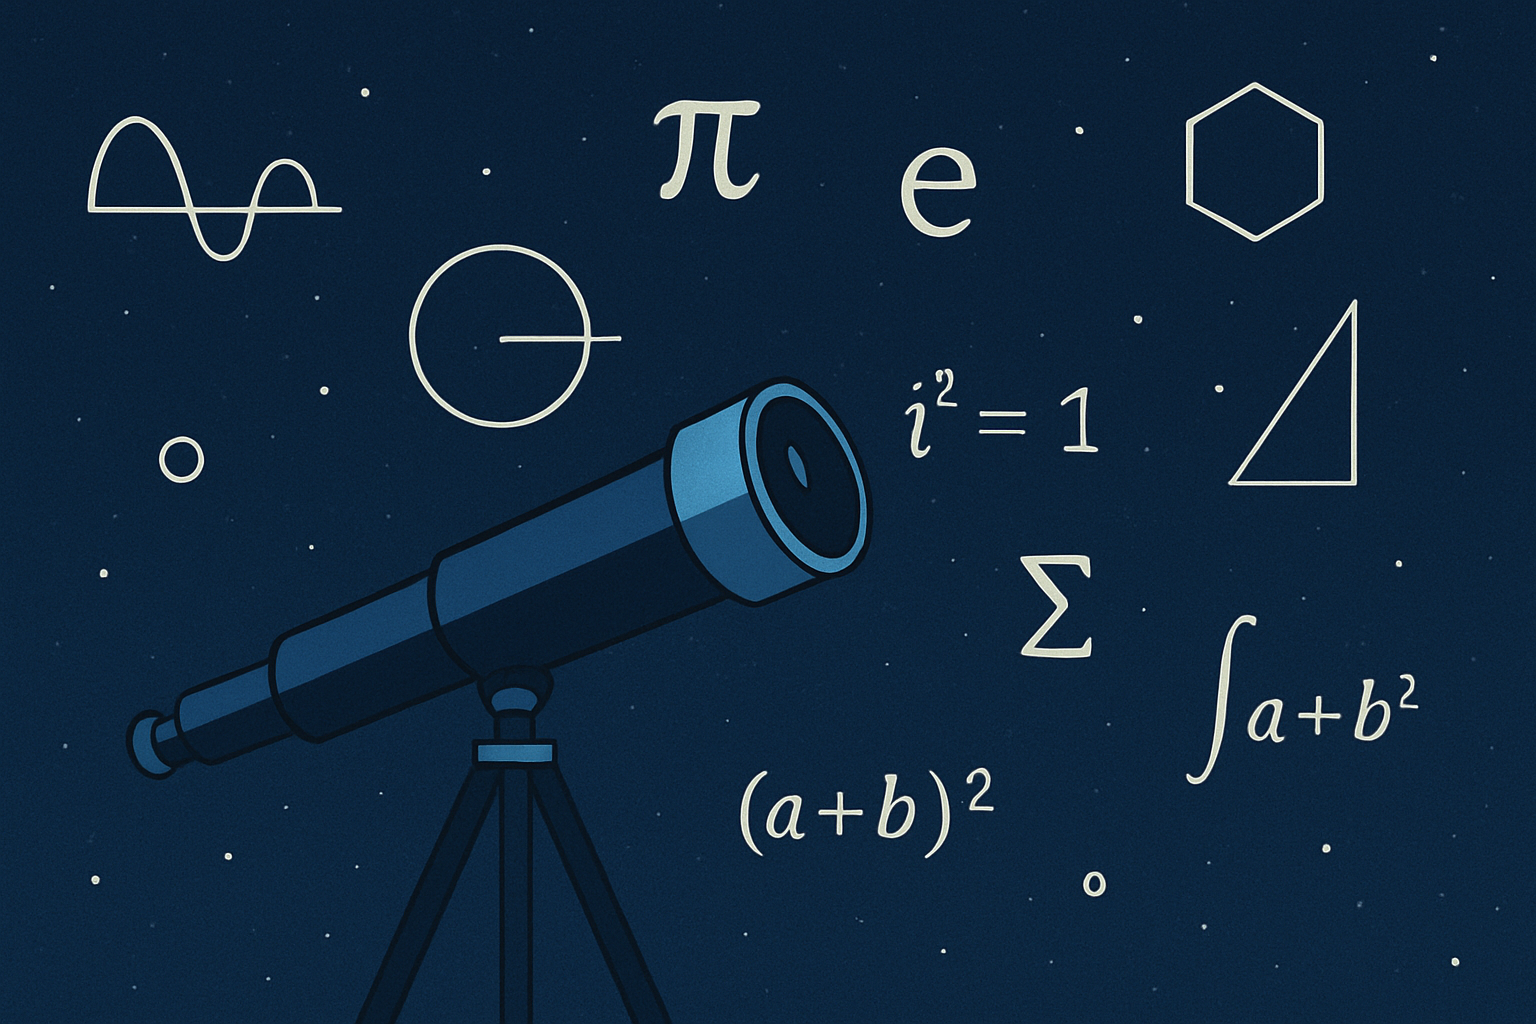
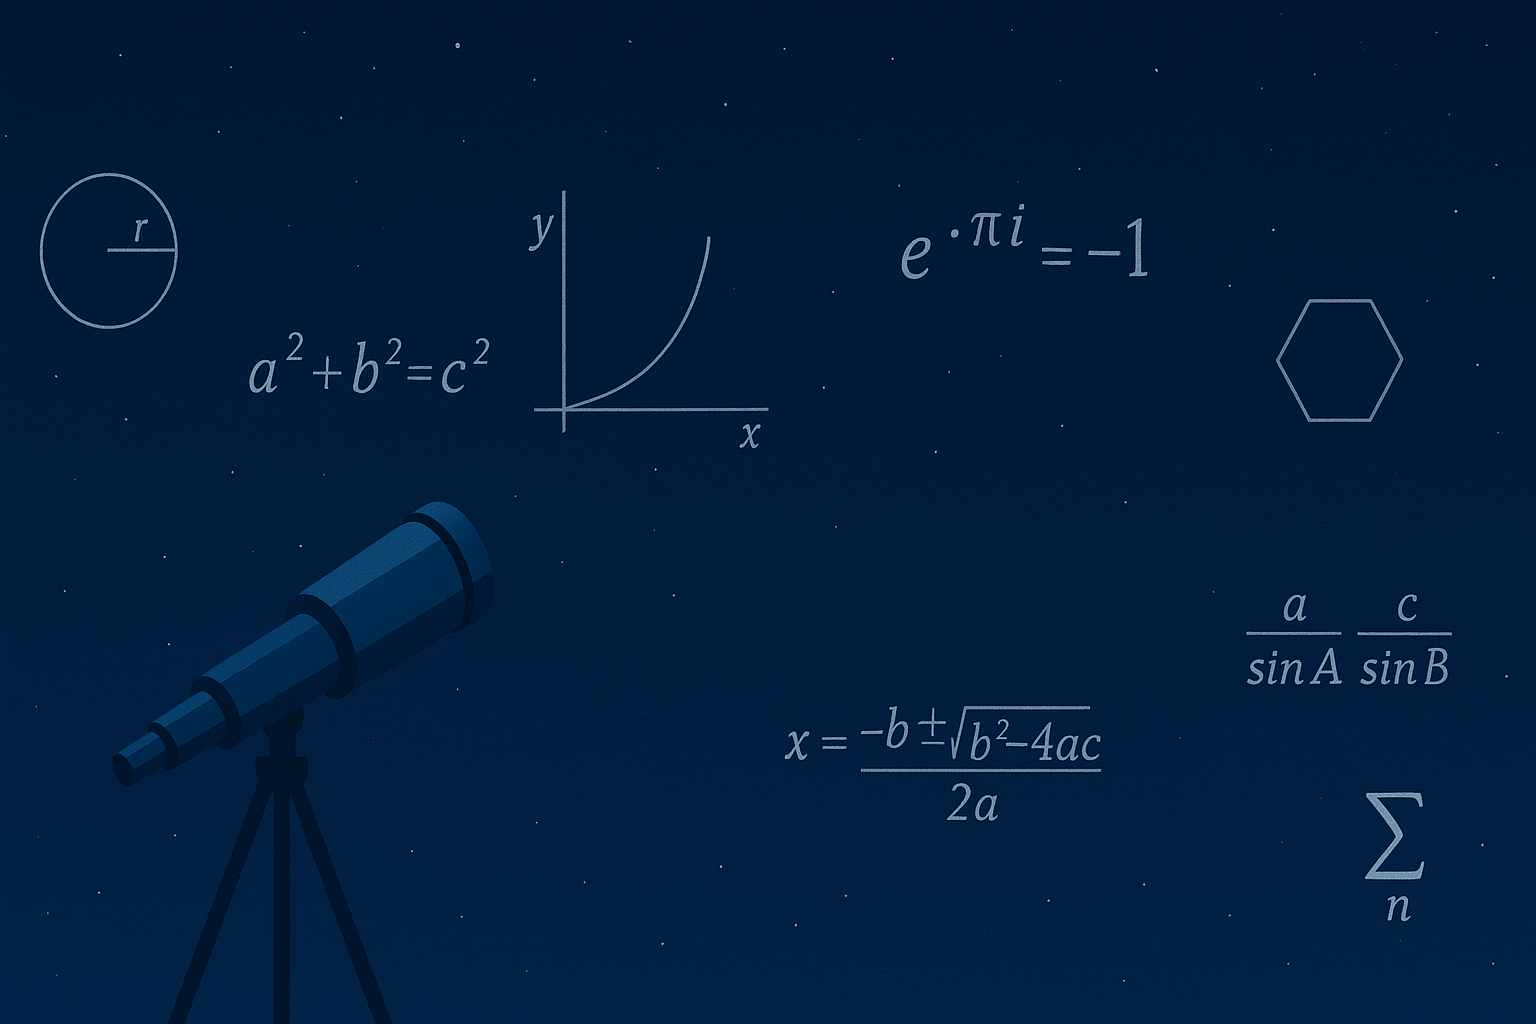
Update top image to mirror images

diff --git a/app.py b/app.py
@@ -5,32 +5,60 @@ app = Dash(__name__, use_pages=True)
 server = app.server
 
 app.layout = html.Div([
+
+    # ---------- Search box ----------
+    html.Div(
+        dcc.Input(
+            id="search-pages",
+            type="text",
+            placeholder="Search pages...",
+            style={"width": "300px", "marginBottom": "20px"}
+        ),
+        style={"textAlign": "left", "margin": "20px"}
+    ),
+
+    # ---------- LINKS + IMAGE SIDE BY SIDE ----------
     html.Div([
-        html.Img(src="/assets/Math_tutor_app.png", style={'width':'300px'}),
-    ], 
+
+        # --- Left: page links ---
+        html.Div(
+            id="page-links-container",
+            style={
+                "width": "300px",
+                "marginRight": "40px"
+            }
+        ),
+
+        # --- Left: image ---
+        html.Div([
+            html.Img(
+                src="/assets/Math_tutor_app_3.png",
+                style={'width': '500px'}
+            )
+        ]),
+        # --- Right: image ---
+        html.Div([
+            html.Img(
+                src="/assets/Math_tutor_app_3_flipped.png",
+                style={'width': '500px'}
+            )
+        ]),
+    ],
     style={
-            'display': 'flex',              # flexbox for this container only
-            'align-items': 'center',        # vertical alignment
-            'justify-content': 'center',    # horizontal alignment
-            'margin': '40px 0'              # optional spacing above/below this section
-    }
-    ),
-    
+        "display": "flex",
+        "flexDirection": "row",
+        "alignItems": "flex-start",
+        "justifyContent": "flex-start",
+        "margin": "20px"
+    }),
 
-    # Search input
-    dcc.Input(
-        id="search-pages",
-        type="text",
-        placeholder="Search pages...",
-        style={"width": "300px", "marginBottom": "20px"}
-    ),
-
-    # Container for page links
-    html.Div(id="page-links-container"),
-
-    # Page content
-    dash.page_container
+    # ---------- Page content below ----------
+    html.Div(
+        dash.page_container,
+        style={"marginTop": "40px"}
+    )
 ])
+
 
 @app.callback(
     Output("page-links-container", "children"),
@@ -43,8 +71,12 @@ def filter_pages(search_value):
     for page in dash.page_registry.values():
         if search_value in page["name"].lower():
             links.append(
-                html.Div(dcc.Link(page["name"], href=page["path"]), style={"marginBottom": "5px"})
+                html.Div(
+                    dcc.Link(page["name"], href=page["path"]),
+                    style={"marginBottom": "8px"}
+                )
             )
+
     return links
 
 
